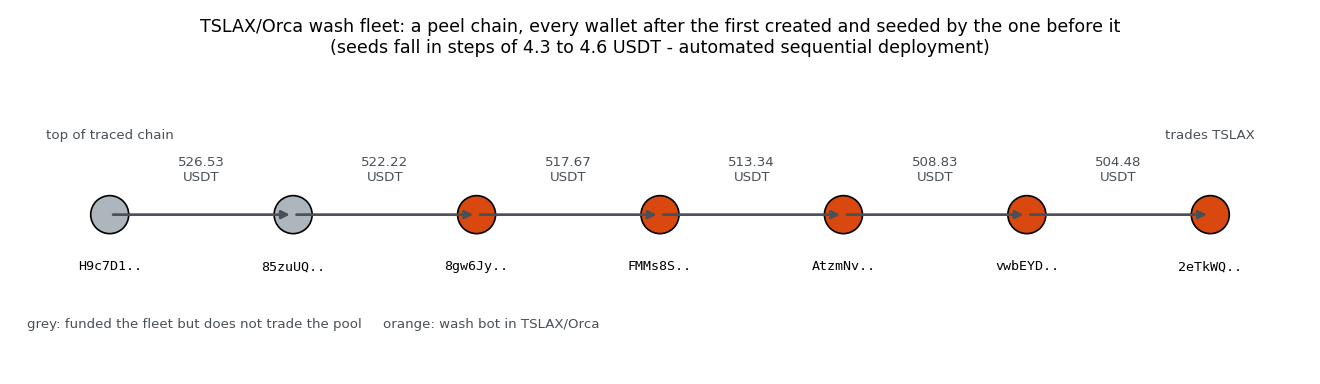
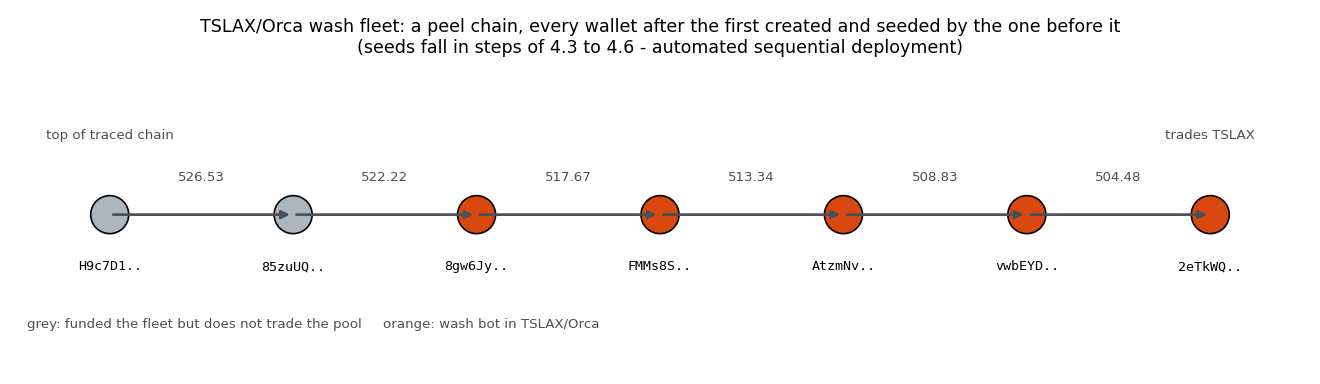
market-health(solana-xstocks): seeds are amounts not USDT; tighten metric mapping + prose
Committed funding traces record seed_token as unresolved, so the seeds are shown
as amounts (mint noted as unrecorded), not USDT. The count condition maps to
buysellratio as a minimum-activity gate, not a count read off the ratio.
Regenerated funding.png without the USDT axis label. Companion pinned at c472a76.

diff --git a/content/research/market-health/posts/2026-06-21-solana-xstocks/index.md b/content/research/market-health/posts/2026-06-21-solana-xstocks/index.md
@@ -22,10 +22,10 @@ Five of the most-traded tokenized-stock pools on Solana carry a large share of m
 2. **The signature is a wallet that buys and sells in matched size for no net position.** Pool-level "circular volume" does not separate wash from organic: over a short window most active wallets in any pool both buy and sell, so the liquid controls score 74% and 38% circular, as high as some flagged pools. The wallet-level definition separates them completely. The organic controls contain no such wallet; the flagged pools are dominated by a handful. On QQQX the busiest one bought $10,657 and sold $10,695 across 36 buys and 36 sells.
 3. **The round trip ends flat and gives back almost everything.** Buy and sell dollars match to a fraction of a percent, the sells returning 99.3% of what the buys cost, and the shares come back too: netting each wallet's xStock units, the leftover position is a median 0.01% of the units it turned over, 4.6% at worst. It is not cross-pool arbitrage on either test. No flagged wallet buys in one pool and sells in another inside a transaction, though 38 transactions in the snapshot do exactly that, all by other wallets; and none is buy-heavy in one pool while sell-heavy in another, which is what arbitraging two pools minutes apart would leave behind.
 4. **The bots run on a robot's clock.** The QQQX wallet's 72 swaps alternate buy, sell with no exception at a roughly fixed cadence, its running signed trade value sawtoothing between zero and about $300 and back to near zero after each pair; the token position itself nets flat. Three TSLAX wallets run the same 4 to 5 second cadence back-to-back. The organic controls hold no such round-tripper.
-5. **Where the funding can be traced, the wallets are a co-deployed fleet rather than independent traders.** In TSLAX/Orca the five wash bots and the two wallets above them form a seven-wallet creation chain: every wallet after the first had its opening transaction paid for by the one before it, which created its token account and seeded it with about 500 USDT, the six seeds stepping down 4.3 to 4.6 USDT at a time. Three SPYX wallets run the same 7-and-7 buy/sell pattern for near-identical dollars, about $12,220 each; counting only its own transactions, and not the legs of routed swaps, one wallet round-trips SPYX in all three of its pools. (The serial peel chain is shown for TSLAX/Orca; in two more pools the bots share an upstream funder, which a depth-capped trace cannot resolve to a single operator. In the remaining two, QQQX/Raydium and one SPYX/Orca pool, there is no funding link between the bots at all.)
+5. **Where the funding can be traced, the wallets are a co-deployed fleet rather than independent traders.** In TSLAX/Orca the five wash bots and the two wallets above them form a seven-wallet creation chain: every wallet after the first had its opening transaction paid for by the one before it, which created its token account and seeded it with a near-constant amount, the six seeds stepping down from 526.53 to 504.48 in steps of 4.3 to 4.6. Three SPYX wallets run the same 7-and-7 buy/sell pattern for near-identical dollars, about $12,220 each; counting only its own transactions, and not the legs of routed swaps, one wallet round-trips SPYX in all three of its pools. (The serial peel chain is shown for TSLAX/Orca; in two more pools the bots share an upstream funder, which a depth-capped trace cannot resolve to a single operator. In the remaining two, QQQX/Raydium and one SPYX/Orca pool, there is no funding link between the bots at all.)
 6. **It is the pool, not the token.** QQQX is flagged in one Raydium pool and unflagged in another of the same mint; TSLAX is flagged on Orca and below the flag on Raydium. The contract and the equity behind it do not change between the two pools, only the venue does.
 7. **The wallets predate the pools, and the fleet is mixed.** Some have been on-chain since October 2025, before the flagged pools existed, with no xStock activity until recently; others, like the TSLAX peel chain, were created the day of the snapshot, and the funding wallets reach back to December 2024. Aged and same-day alike, with funding older than the pools. That dates the accounts and the money behind them, not the washing itself, which this data cannot place in time.
-8. **Scale, stated carefully.** In the measured windows the bots round-tripped $467,000 of buy-and-sell that nets to nothing, a hard floor, directly observed. A 24-hour figure is an extrapolation, and the two natural methods disagree by about threefold across the five pools ($32M to $102M per day) and by far more on an individual pool: widest on QQQX, where the share method implies $26M against under $1M from that pool's own observed bot rate. The floor and the per-pool shares are the claims to rely on. Followed back through their on-chain history - classified against the seven xStock mints the collector knows, of which these wallets touch three (SPYX, TSLAX, QQQX) - these same wallets have matched $5.6M across 2,836 swaps, a floor since any xStock below the volume floor has no recognised mint and is not counted.
+8. **Scale, stated carefully.** In the measured windows the bots matched $467,000 of buy-and-sell that pairs off to no net position, a hard floor, directly observed. A 24-hour figure is an extrapolation, and the two natural methods disagree by about threefold across the five pools ($32M to $102M per day) and by far more on an individual pool: widest on QQQX, where the share method implies $26M against under $1M from that pool's own observed bot rate. The floor and the per-pool shares are the claims to rely on. Followed back through their on-chain history - classified against the seven xStock mints the collector knows, of which these wallets touch three (SPYX, TSLAX, QQQX) - these same wallets have matched $5.6M across 2,836 swaps, a floor since any xStock below the volume floor has no recognised mint and is not counted.
 9. **Read it as a flag on behaviour, not a verdict.** Solana addresses are pseudonymous. This characterises a pattern of automated, self-cancelling trading and its funding structure, not the identity or intent of any person. Every wallet and transaction below is checkable on a public explorer, and the active wallet set rotates over time.
 
 ## The market: xStocks, on-chain on Solana
@@ -42,7 +42,7 @@ The universe is a pre-selection, and it bounds everything that follows. A Dexscr
 
 The definition is deliberately set at the wallet level rather than the pool level. A pool-level circularity measure - the share of a pool's volume done by wallets that both buy and sell, which is a construction of this post rather than one of the DN metrics - does not separate wash from organic: over a short window most active wallets in any liquid pool trade both ways, so WIF and JUP score 74% and 38% circular, as high as the flagged pools. The wallet-level definition separates the organic controls completely: WIF and JUP contain no such wallet at all. It isolates an actor neither control contains, one that market-takes both directions in matched size, repeatedly, ending flat. That is a statement about the two controls measured here, not about real markets in general. Among the non-flagged xStock pools the separation is sharp rather than absolute - one wallet sits on the line at 0.91, and the sub-window caveat below applies.
 
-**Calibration is not circular.** The 0.20 flag sits above the two a-priori organic controls, WIF and JUP, both of which score zero and were chosen before anything was scored. It is not defined by turnover, which is itself a wash signal, so the unflagged xStock pools are a result: the same QQQX and TSLAX that flag in one pool fall below 0.06 in their other pools under the same detector.
+**The flag is fixed in advance, not fitted to the result.** The 0.20 cut is a fixed floor, set before scoring and not derived from the flagged pools' own output. The a-priori controls WIF and JUP both score zero, so the cut clears them, and it lands in the empty gap: nothing unflagged exceeds 0.06, nothing flagged falls under 0.36. It is not defined by turnover, which is itself a wash signal, so the unflagged xStock pools are a result: the same QQQX and TSLAX that flag in one pool fall below 0.06 in their other pools under the same detector.
 
 {{< figure src="screen.png" alt="wash score for the scored Solana xStock pools: five flagged in orange far above the flag line, while the WIF and JUP organic controls sit at zero, marked in green" caption="Wash score (USD share transacted by balanced heavy round-trippers) for every scored pool - each xStock pool that cleared the $50,000 volume floor and has at least 150 swaps - plus the two a-priori organic controls, WIF and JUP, marked in green at the zero baseline (their green bars have no height because both score exactly zero). Five pools clear the 0.20 flag; every other scored pool, including the same xStocks in their other pools, scores at most 0.06. The low-volume tail dropped by the floor is not shown." >}}
 
@@ -55,7 +55,7 @@ Two honesty notes the reader should weigh:
 
 {{< figure src="balance.png" alt="USD balance of heavy round-trippers: flagged-pool wallets cluster near 1.0, other-pool wallets spread below 0.9" caption="USD balance of every heavy round-tripper (at least 5 buys and 5 sells). In the flagged pools (orange) they pile up at near-perfect balance; in every other pool (green) they are directional and spread below the cut. The 0.90 threshold falls in the gap between the two modes." loading="lazy" >}}
 
-The cut is not tuned, but the flagged-against-non-flagged contrast is not the evidence for it. Of the 22 heavy round-trippers in the non-flagged pools and the controls, one reaches the wash-bot balance: a lone borderline 0.91, in an xStock pool, not a control. The 18 of 33 in the flagged pools sit pressed against 1.0, median 0.94 against 0.66. That gap is worth reporting, but it cannot be used as proof of anything: a pool is flagged precisely because balanced round-trippers move its volume, so flagged pools contain such wallets by construction. Counting them and finding more in the flagged pools measures the selection, not the market. It is the same circularity that rules out a p-value here, and dropping the p-value while keeping the inference would be the same mistake with the number filed off. What the cut does rest on is the a-priori controls, chosen before anything was scored. In the sweep above, WIF crosses the flag at 0.80 but not at 0.90, so the cut is loose enough to admit a token known to be organic only once it is pushed below 0.90; and across the full snapshot WIF and JUP carry three heavy round-trippers between them, not one of them balanced. Three wallets is a thin comparison and is not a test either. The claim that these bots are unlike organic traders rests on the signals the detector never looks at: the fixed cadence, the clip sizes matched within a few dollars, the funding chains, and the near-zero token flatness below. Turnover, a signal the detector does not use, corroborates the thin pools strongly (QQQX 1,624x) but only weakly the deep ones (SPYX/Raydium, a $1.67M pool at 56x), where the wallet structure carries the flag.
+The 0.90 balance cut is a round a-priori choice - within 10% of flat - not fitted to the flagged-against-non-flagged contrast, and that contrast is not the evidence for it anyway. Of the 22 heavy round-trippers in the non-flagged pools and the controls, one reaches the wash-bot balance: a lone borderline 0.91, in an xStock pool, not a control. The 18 of 33 in the flagged pools sit pressed against 1.0, median 0.94 against 0.66. That gap is worth reporting, but it cannot be used as proof of anything: a pool is flagged precisely because balanced round-trippers move its volume, so flagged pools contain such wallets by construction. Counting them and finding more in the flagged pools measures the selection, not the market. It is the same circularity that rules out a p-value here, and dropping the p-value while keeping the inference would be the same mistake with the number filed off. What the cut does rest on is the a-priori controls, chosen before anything was scored. In the sweep above, WIF crosses the flag at 0.80 but not at 0.90, so the cut is loose enough to admit a token known to be organic only once it is pushed below 0.90; and across the full snapshot WIF and JUP carry three heavy round-trippers between them, not one of them balanced. Three wallets is a thin comparison and is not a test either. The claim that these bots are unlike organic traders rests on the signals the detector never looks at: the fixed cadence, the clip sizes matched within a few dollars, the funding chains, and the near-zero token flatness below. Turnover, a signal the detector does not use, corroborates the thin pools strongly (QQQX 1,624x) but only weakly the deep ones (SPYX/Raydium, a $1.67M pool at 56x), where the wallet structure carries the flag.
 
 **The pattern recurs, and the wallets do not.** Re-sampled once about six hours later, not one wash bot reappears: across the two snapshots wallet overlap is zero. Three of the five pools are again actively washed (TSLAX 75%, QQQX 69%, the SPYX/Orca pool [`gef4pD5g`](https://solscan.io/account/gef4pD5g6GJSjX7hfXKUfhCVpE89BzX9TXnXJNW6kSt) 41%); the other two sit below the flag at that moment. This is one before-and-after comparison, not a time series, so it shows complete turnover across this interval rather than a proven general cadence. The activity comes in bursts by a rotating set of wallets, so a single window catches some pools mid-burst and others between - which is why any named wallet is point-in-time. `persistence.py` reproduces the comparison.
 
@@ -65,7 +65,7 @@ Plot every wallet by the dollars it bought against the dollars it sold. A wallet
 
 {{< figure src="signature.png" alt="scatter of USD bought versus USD sold per wallet, wash bots on the diagonal in the flagged pools, organic wallets scattered" caption="USD bought versus USD sold per wallet. Left: the flagged xStock pools, where the wash bots (orange) sit on the buy=sell diagonal at $3k to $33k. Right: an organic control (WIF/JUP), where the busiest wallets are directional or one-sided, off the diagonal." loading="lazy" >}}
 
-In the flagged pools the heavy wallets line up on the diagonal at five figures; in the organic control the busiest wallets sit off it, many pure buyers or pure sellers on the axes. On QQQX/Raydium the busiest wallet, [`C6FyA84D...`](https://solscan.io/account/C6FyA84D6JLtkSSyq45gcLFi67P3q61FhGohEFYd9rvF), bought $10,657 and sold $10,695; on TSLAX/Orca four wallets each bought and sold near $10,100, their own buy and sell within a fraction of a percent. A wallet that buys and sells the same amount, in the same pool, ends essentially flat and captures no spread.
+In the flagged pools the heavy wallets line up on the diagonal at five figures; in the organic control the busiest wallets sit off it, many pure buyers or pure sellers on the axes. On QQQX/Raydium the busiest wallet, [`C6FyA84D...`](https://solscan.io/account/C6FyA84D6JLtkSSyq45gcLFi67P3q61FhGohEFYd9rvF), bought $10,657 and sold $10,695; on TSLAX/Orca four wallets each bought and sold near $10,100, their own buy and sell within a fraction of a percent. A wallet that buys and sells the same dollars, in the same pool, takes no net dollar position; that it also ends flat in the token and captures no spread are the separate unit-netting and return checks below (0.18% of units net, 99.3% of the dollars returned).
 
 This is the place to rule out the benign readings, one at a time:
 
@@ -86,9 +86,9 @@ The wallet [`C6FyA84D...`](https://solscan.io/account/C6FyA84D6JLtkSSyq45gcLFi67
 
 Following each flagged wallet back to its first-ever transaction, through the free Solana RPC, shows how the fleet was built.
 
-{{< figure src="funding.png" alt="seven wallets in a line: two funders in grey, then the five TSLAX wash bots in orange, every wallet after the first seeded by the one before it with a slightly smaller USDT amount" caption="The TSLAX/Orca fleet as a creation chain. Every wallet after the first had its opening transaction paid for by the one before it, which created its token account and seeded it with about 500 USDT. The six seeds fall in steps of 4.3 to 4.6 USDT (526.53, 522.22, 517.67, 513.34, 508.83, 504.48), the signature of automated sequential deployment." loading="lazy" >}}
+{{< figure src="funding.png" alt="seven wallets in a line: two funders in grey, then the five TSLAX wash bots in orange, every wallet after the first seeded by the one before it with a slightly smaller amount" caption="The TSLAX/Orca fleet as a creation chain. Every wallet after the first had its opening transaction paid for by the one before it, which created its token account and seeded it with a near-constant amount. The six seeds fall in steps of 4.3 to 4.6 (526.53, 522.22, 517.67, 513.34, 508.83, 504.48), the signature of automated sequential deployment." loading="lazy" >}}
 
-In the TSLAX/Orca pool the five wash bots, plus the two wallets above them, form a single seven-wallet chain: [`H9c7D19P`](https://solscan.io/account/H9c7D19PycFbYRiZMEBN4UvV9JyCWmQovqruNaG8K11i) seeded [`85zuUQ5w`](https://solscan.io/account/85zuUQ5wHER33mpqxezdaUNjnWfL6fhh5Z7wNnaURTjS) with 526.53 USDT, which seeded [`8gw6JyEW`](https://solscan.io/account/8gw6JyEW1PGLzehpNeNU4jzb2iVtjet1o7YHQPxM1wmH) with 522.22, which seeded [`FMMs8SGx`](https://solscan.io/account/FMMs8SGxukt4DRy1wKGyjCcovqj2xci16doZDPqc33eC) with 517.67, which seeded [`AtzmNv2w`](https://solscan.io/account/AtzmNv2ww5iQRT5XytY43SKvTTeFPL3LdrFPeCiJDFAv) with 513.34, which seeded [`vwbEYDGU`](https://solscan.io/account/vwbEYDGUamnFvhr9fq6RQnXK8Pn76okVw1kwgFPpt9Z) with 508.83, which seeded [`2eTkWQyt`](https://solscan.io/account/2eTkWQyt9iGuXP5XUayXRdZuvLoHzDf48ZDjY8EWQUiF) with 504.48. Every wallet below the top of the chain had its first transaction *signed and paid for* by its predecessor, which created its USDT token account and funded it in the same transaction. The trace walks six levels up and stops, which is where `H9c7D19P` sits: it may well have a funder of its own, but this data does not reach it. Fresh wallets created in sequence, each seeded a near-constant step below the last, is the structure of an automated deployment, not of independent people choosing to trade the same pool. Two further patterns confirm coordination within the fleet:
+In the TSLAX/Orca pool the five wash bots, plus the two wallets above them, form a single seven-wallet chain: [`H9c7D19P`](https://solscan.io/account/H9c7D19PycFbYRiZMEBN4UvV9JyCWmQovqruNaG8K11i) seeded [`85zuUQ5w`](https://solscan.io/account/85zuUQ5wHER33mpqxezdaUNjnWfL6fhh5Z7wNnaURTjS) with 526.53, which seeded [`8gw6JyEW`](https://solscan.io/account/8gw6JyEW1PGLzehpNeNU4jzb2iVtjet1o7YHQPxM1wmH) with 522.22, which seeded [`FMMs8SGx`](https://solscan.io/account/FMMs8SGxukt4DRy1wKGyjCcovqj2xci16doZDPqc33eC) with 517.67, which seeded [`AtzmNv2w`](https://solscan.io/account/AtzmNv2ww5iQRT5XytY43SKvTTeFPL3LdrFPeCiJDFAv) with 513.34, which seeded [`vwbEYDGU`](https://solscan.io/account/vwbEYDGUamnFvhr9fq6RQnXK8Pn76okVw1kwgFPpt9Z) with 508.83, which seeded [`2eTkWQyt`](https://solscan.io/account/2eTkWQyt9iGuXP5XUayXRdZuvLoHzDf48ZDjY8EWQUiF) with 504.48. Every wallet below the top of the chain had its first transaction *signed and paid for* by its predecessor, which created its token account and funded it in the same transaction; the trace records the transfer amount but not the mint. The trace walks six levels up and stops, which is where `H9c7D19P` sits: it may well have a funder of its own, but this data does not reach it. Fresh wallets created in sequence, each seeded a near-constant step below the last, is the structure of an automated deployment, not of independent people choosing to trade the same pool. Two further patterns confirm coordination within the fleet:
 
 - **Matching parameters.** In SPYX/Raydium three distinct wallets ([`78jkE1hP`](https://solscan.io/account/78jkE1hPATuzEnAY6ENpfuLf9DZYtXS5iqnmYAeFpFNY), [`3T1YdUjo`](https://solscan.io/account/3T1YdUjo2edVC1oJ6MK7HvKic2JKGs53GC4HuEV6U7rv), [`B2ES7Uzw`](https://solscan.io/account/B2ES7UzwvJTw2A7dX2WpvqQ7xxB58AkSbSp4WbE2eCqL)) each ran exactly 7 buys and 7 sells for about $12,220, their totals within about $20 of one another ($12,228, $12,218, $12,213 bought); in TSLAX/Orca three wallets each ran 21 buys and 21 sells near $10,100 and a fourth ran 20 and 20.
 - **Shared operation across pools.** Counted so that one routed swap landing in three pools cannot masquerade as three pools' worth of activity. On that stricter count [`HpcHy6dN`](https://solscan.io/account/HpcHy6dNYRotVim8HPpZmsfnekviyv1sRcX1C533SYky) round-trips SPYX in all three of its pools, the Raydium one and both Orca ones, balanced in each, in transactions of its own. [`33X9awze`](https://solscan.io/account/33X9awzeff9PbKBpQYaf1ZJTp8Ksxv8Fne3WxajLpwM7) also trades three of them in its own transactions - SPYX/Raydium and both SPYX/Orca pools - but runs sell-heavy rather than balanced, so it reads as inventory disposal across the SPYX pools rather than a clean round trip, the weaker case. `6G11Z8xR` is not a case at all: every pool it appears in, it reached only as a leg of a routed swap.
@@ -103,7 +103,7 @@ The same tokens carry a wash fleet in one pool and not in another. QQQX is flagg
 
 {{< figure src="manufactured.png" alt="measured in-window wash share per flagged pool with the matched-USD floor labelled" caption="The measured self-cancelling share of volume in each flagged pool's snapshot window (36% to 80%), with the matched-USD floor and window length labelled. The hard floor across all five is $467k of directly-observed matched volume; the 24h dollar figure is a wide extrapolation, discussed in the text." loading="lazy" >}}
 
-Only one of the two figures is a bound. The hard floor is what the bots round-tripped inside the measured windows: $467,000 of matched buy-and-sell that nets to nothing, directly observed. A 24-hour figure assumes the snapshot behaviour persists, which the re-sample six hours later already contradicts, and the two natural extrapolations disagree sharply. Each pool's wash share times its reported 24h volume gives about $102M a day; each pool's observed bot rate over 24 hours gives about $32M. The gap is widest where the window is shortest: on QQQX the share method implies $26M against under $1M from its own snapshot rate, so that extrapolation is unreliable. Take $32M to $102M per day as the distance between two guesses, not as a range that brackets the truth, and rely on the floor and the per-pool shares.
+Only one of the two figures is a bound. The hard floor is what the bots matched inside the measured windows: $467,000 of buy-and-sell that pairs off to no net position, directly observed. A 24-hour figure assumes the snapshot behaviour persists, which the re-sample six hours later already contradicts, and the two natural extrapolations disagree sharply. Each pool's wash share times its reported 24h volume gives about $102M a day; each pool's observed bot rate over 24 hours gives about $32M. The gap is widest where the window is shortest: on QQQX the share method implies $26M against under $1M from its own snapshot rate, so that extrapolation is unreliable. Take $32M to $102M per day as the distance between two guesses, not as a range that brackets the truth, and rely on the floor and the per-pool shares.
 
 **The snapshot floor is a fraction of the lifetime total.** Following the fourteen wallets back through their history via Helius, classifying each swap against the xStock mints the collector knows - the seven that cleared the volume floor and so have a tape (SPYX, TSLAX, QQQX, CRCLX, MSTRX, NVDAX, COINX) - shows the snapshot caught a sliver. Of those seven these wallets touch only three, SPYX, TSLAX and QQQX, and even so they have cycled $5.6M of stablecoin two-sided across 2,836 swaps. "Matched" is twice the smaller of each wallet's total buys and total sells in a symbol - the most that could pair off, taken over lifetime totals rather than reconstructed trade by trade, so it bounds the self-cancelling volume rather than counting verified round trips; the near-perfect balance is what makes nearly all of it pairable. That is more than ten times the in-window floor, and a floor in its own right: any xStock below the volume floor has no tape and so no recognised mint, so it is not counted - this is a floor on their all-xStock two-sided total. [`HpcHy6dN`](https://solscan.io/account/HpcHy6dNYRotVim8HPpZmsfnekviyv1sRcX1C533SYky) alone accounts for $2.9M across 912 swaps in QQQX, SPYX and TSLAX. The pairing is within each symbol, so a buy of one xStock is never set against a sale of another; done the loose way, across a wallet's symbols at once, it comes to the same $5,579,149 exactly, because these wallets are balanced in every symbol they touch. The washing is not continuous: each wallet concentrates into a span of days, the widest just over four days, the same rotating, short-burst behaviour the persistence re-sample caught. The reconstruction also shows the per-pool tape is conservative, the true on-chain net running about 1.3x what the tape records, so the floor understates the wash if anything.
 
@@ -127,12 +127,12 @@ This is a flag on a pattern, not an accusation against a person. Solana addresse
 
 ## Methodology and reproducibility
 
-The companion repository, [github.com/mkzung/solana-xstocks-wash-analysis](https://github.com/mkzung/solana-xstocks-wash-analysis), reproduces every figure and number from a committed snapshot, with CI that reruns the full pipeline. Every file named here - `data/universe.json`, `analysis/verify.py`, the rest - lives in that repository. The analysis is pinned at commit [`c6e3c32`](https://github.com/mkzung/solana-xstocks-wash-analysis/tree/c6e3c32164207f4fdb509fb89d4c32c21f5480db). Check that commit out and run the pipeline; `verify.py` recomputes every headline number, and the analysis modules before it regenerate the JSON and figures:
+The companion repository, [github.com/mkzung/solana-xstocks-wash-analysis](https://github.com/mkzung/solana-xstocks-wash-analysis), reproduces every figure and number from a committed snapshot, with CI that reruns the full pipeline. Every file named here - `data/universe.json`, `analysis/verify.py`, the rest - lives in that repository. The analysis is pinned at commit [`c472a76`](https://github.com/mkzung/solana-xstocks-wash-analysis/tree/c472a765d1a7fa6208ff56e3fb2403f5e92ee51a). Check that commit out and run the pipeline; `verify.py` recomputes every headline number, and the analysis modules before it regenerate the JSON and figures:
 
 ```bash
 git clone https://github.com/mkzung/solana-xstocks-wash-analysis
 cd solana-xstocks-wash-analysis
-git checkout c6e3c32164207f4fdb509fb89d4c32c21f5480db
+git checkout c472a765d1a7fa6208ff56e3fb2403f5e92ee51a
 pip install -r requirements.txt
 for m in screen cluster temporal persistence lifetime named_wallets figures; do
   python analysis/$m.py       # rebuild the JSON + PNGs from the committed snapshot
@@ -143,13 +143,13 @@ python analysis/verify.py     # then independently recompute every headline numb
 [CI](https://github.com/mkzung/solana-xstocks-wash-analysis/actions/workflows/test.yml) runs the same chain on every push. The committed snapshot makes the run deterministic and key-less.
 
 - **Data, free.** Pool universe and turnover from Dexscreener, pulled once and committed as `data/universe.json` rather than re-queried by the pipeline; tx-level swaps (wallet, hash, side, USD) and OHLCV from GeckoTerminal (most-recent ~300 swaps per pool, no deep pagination); funding traces from the public Solana RPC - all key-less. The fourteen bots' lifetime histories (used only for the lifetime totals in "The scale") come from the Helius enhanced-transactions API (free tier), each swap classified against the xStock mints that survive the volume floor - seven symbols with a tape (SPYX, TSLAX, QQQX, CRCLX, MSTRX, NVDAX, COINX) - and committed to the repo so the totals recompute without a key. These wallets show activity in only three of the seven, SPYX/TSLAX/QQQX. Any activity in a lower-volume xStock has no tape and so no recognised mint, and is not counted, so the lifetime totals are floors. The snapshot (2026-06-21) and a second sample taken six hours later (for the persistence check) are both committed, so the analysis is deterministic. The funding trace walks each wallet back to its earliest retrievable transaction, paging through its signatures up to a fixed cap. Every named bot's own history falls under that cap - `33X9awze`, with the most signatures, spans two pages but is still fully retrieved - so its earliest signature is its true first transaction; the two shared SPYX funders, by contrast, each hit the cap at two thousand signatures, so their history is truncated and the earliest transaction reached is not a proven origin.
-- **Detector and metric mapping** (`metrics_lib.py`). The wash-bot rule takes the DN [buy/sell metrics](https://dn.institute/market-health/docs/market-health-metrics/) from the pool level down to the wallet level. Two of the DN metrics map onto it directly. The count condition comes from `buysellratio`, which the DN docs define on the *number* of trades: a wallet that only ever buys, or only ever sells, sits at 0 or 1 and can never be a bot, so the rule asks for at least five trades on each side. The balance condition is `buysellratioabs`, the *volume-weighted* one, buy volume over total volume: a wash bot sits on the even split. The `min/max >= 0.90` rule is exactly that metric between 0.4737 and 0.5263 (a buy share of 0.4737 is a buy/sell ratio of 0.90). The cadence and alternation shown later are not a DN metric: the DN `timeoftrade` is a second-of-minute histogram over a pool, a different measurement, so no mapping to it is claimed - the fixed inter-swap spacing and near-perfect buy/sell alternation are a wallet-level construction of this post, like the circularity figure. First-digit (`firstdigitdist`/`benfordlawtest`) is not used either: at the wallet level the signal is the matched two-sided structure, not the trade-size distribution. One thing this post does not do is reuse `volumedist`, which the DN docs define as the distribution of trading volumes: the pool-level circularity figure quoted above (the share of volume from wallets that both buy and sell, 74% on WIF and 38% on JUP) is a measure built for this post, not that metric, and it is reported precisely because it fails to separate wash from organic.
+- **Detector and metric mapping** (`metrics_lib.py`). The wash-bot rule takes the DN [buy/sell metrics](https://dn.institute/market-health/docs/market-health-metrics/) from the pool level down to the wallet level. Two of the DN metrics map onto it directly. The count condition is a minimum-activity gate related to `buysellratio`, which the DN docs define on the *number* of trades as the buy-trade share: a wallet that only ever buys, or only ever sells, sits at 1 or 0. That share tells you both sides are non-empty but not how many trades there are, so rather than reading a count off the ratio this post adds its own floor, at least five trades on each side. The balance condition is `buysellratioabs`, the *volume-weighted* one, buy volume over total volume: a wash bot sits on the even split. The `min/max >= 0.90` rule is exactly that metric between 0.4737 and 0.5263 (a buy share of 0.4737 is a buy/sell ratio of 0.90). The cadence and alternation shown later are not a DN metric: the DN `timeoftrade` is a second-of-minute histogram over a pool, a different measurement, so no mapping to it is claimed - the fixed inter-swap spacing and near-perfect buy/sell alternation are a wallet-level construction of this post, like the circularity figure. First-digit (`firstdigitdist`/`benfordlawtest`) is not used either: at the wallet level the signal is the matched two-sided structure, not the trade-size distribution. One thing this post does not do is reuse `volumedist`, which the DN docs define as the distribution of trading volumes: the pool-level circularity figure quoted above (the share of volume from wallets that both buy and sell, 74% on WIF and 38% on JUP) is a measure built for this post, not that metric, and it is reported precisely because it fails to separate wash from organic.
 - **Pipeline.** Network collectors run once to build the committed snapshot: `fetch_raw.py` (reads the committed `data/universe.json`, the Dexscreener pull, and fetches the tapes from GeckoTerminal; it applies the $50,000 volume floor before fetching anything), `fund_trace.py`/`trace_tree.py` (funding origins via Solana RPC), `wallet_history.py` (each bot's full Helius history), `owner_check.py` (records each named wallet's account owner - System Program, i.e. not a program-owned account - committed for offline re-check). The deterministic analysis, which CI reruns over the committed data on every push: `screen.py` (venue screen, controls, sub-window confound check), `cluster.py` (named bots, creation chains, sibling fleets, and the routing measurements in `routing.json`), `temporal.py` (cadence, floor, both 24h extrapolations), `persistence.py`, `lifetime.py`, `named_wallets.py`, `figures.py`, and `verify.py` - an independent recomputation of every headline claim from the committed data - plus a `pytest` suite.
 - **Limitations**, stated plainly. The trade snapshot is the most-recent ~300 swaps per pool (a sub-hour window in the busy pools), so wash shares are in-window intensities and the daily dollar figure is the labelled extrapolation, not a measurement. A precise onset cannot be dated: the free OHLCV history is too sparse for a per-pool onset curve, and a wallet's age is not its wash onset (the aged wallets show unrelated activity for months first); the wallet dates establish only that the accounts and the money that created them are older than the pools, not when the washing began. The funding trace is depth-capped, establishing co-deployment in three of the five pools - a serial peel chain for TSLAX/Orca, a shared upstream funder in SPYX/Raydium and one SPYX/Orca pool - and no funding link in the other two, and never a single operator across all five. A pool tape also records legs of swaps, not whole swaps: an aggregator can split one signed transaction across several pools, which covers 35% of the flagged wallets' volume here. That is measured rather than assumed, and it is why a wallet's presence in several pools is only counted when it gets there in transactions of its own. The five flagged pools are also the highest-volume in the universe, and only pools with at least 150 snapshot swaps are scored, so "five of sixteen" is five of the sixteen scored pools, not a census; the low-volume tail is unscored, not shown clean.
 
 ## Appendix: the flagged wallets
 
-The ten largest by in-window matched volume are shown, each with its lifetime matched total (across SPYX, TSLAX and QQQX, the three of the seven recognised xStock mints these wallets traded) alongside; the gap between the two is the sliver the snapshot window caught. (All 14 named bots, with a sample transaction hash for each, are in [`data/named_wallets.json`](https://github.com/mkzung/solana-xstocks-wash-analysis/blob/c6e3c32164207f4fdb509fb89d4c32c21f5480db/data/named_wallets.json) in the companion repo.) Every wallet buys and sells in matched size, and each is a System-Program-owned account, not a program or router. A row is a wallet's activity in that pool's tape, which for routed swaps is a leg rather than a whole swap. Paste any address into a Solana explorer to verify.
+The ten largest by in-window matched volume are shown, each with its lifetime matched total (across SPYX, TSLAX and QQQX, the three of the seven recognised xStock mints these wallets traded) alongside; the gap between the two is the sliver the snapshot window caught. (All 14 named bots, with a sample transaction hash for each, are in [`data/named_wallets.json`](https://github.com/mkzung/solana-xstocks-wash-analysis/blob/c472a765d1a7fa6208ff56e3fb2403f5e92ee51a/data/named_wallets.json) in the companion repo.) Every wallet buys and sells in matched size, and each is a System-Program-owned account, not a program or router. A row is a wallet's activity in that pool's tape, which for routed swaps is a leg rather than a whole swap. Paste any address into a Solana explorer to verify.
 
 | Pool | Wallet | Buys / Sells | In-window bought / sold (USD) | Lifetime matched (SPYX/TSLAX/QQQX) |
 |------|--------|--------------|-------------------------------|-------------------------------|
